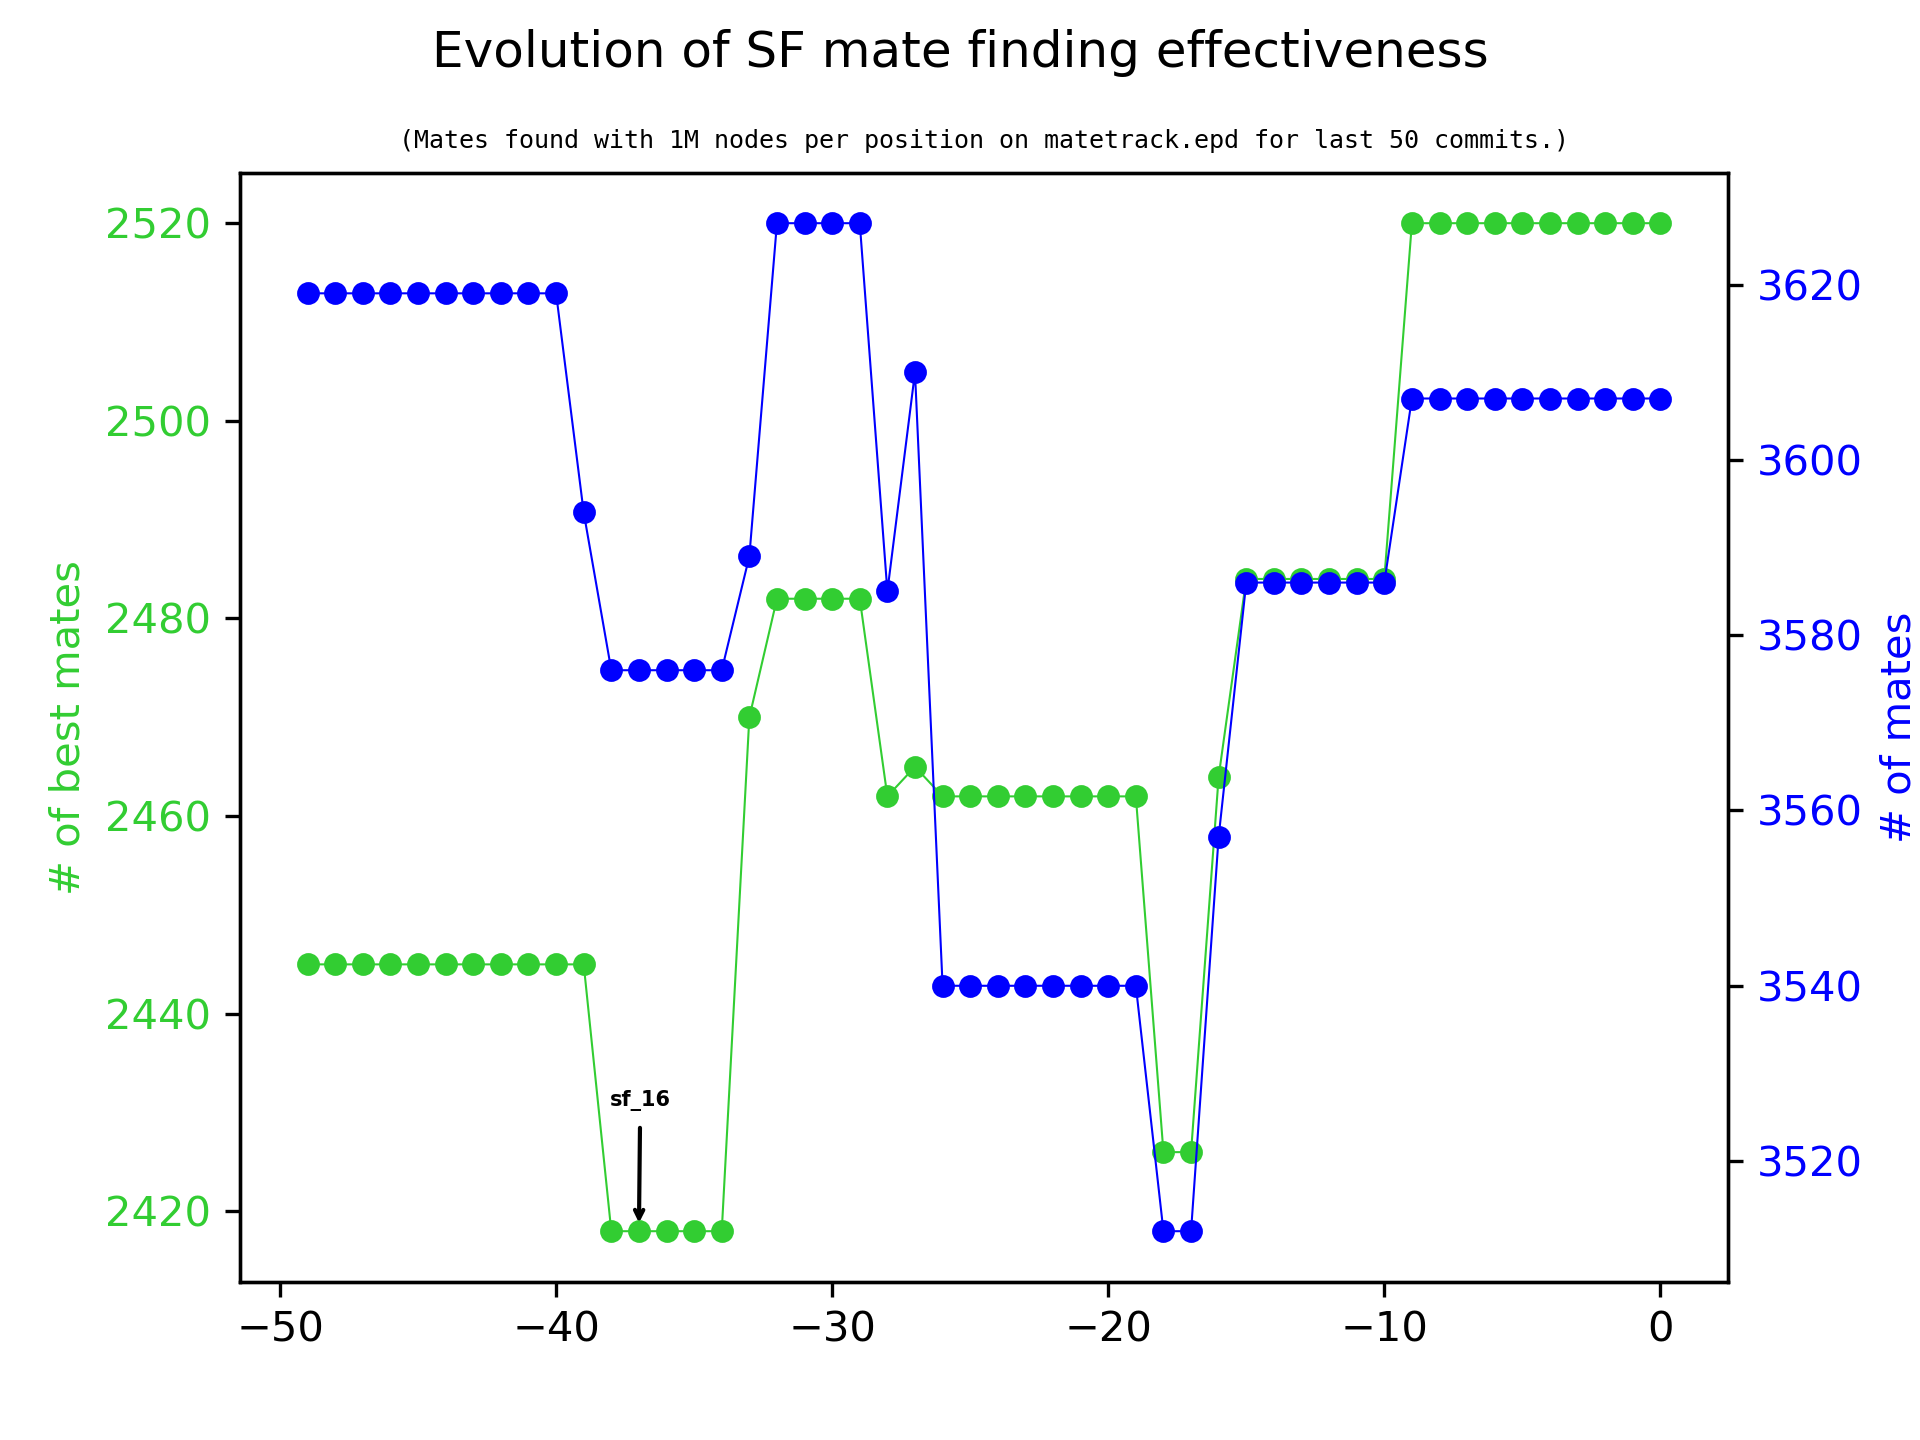
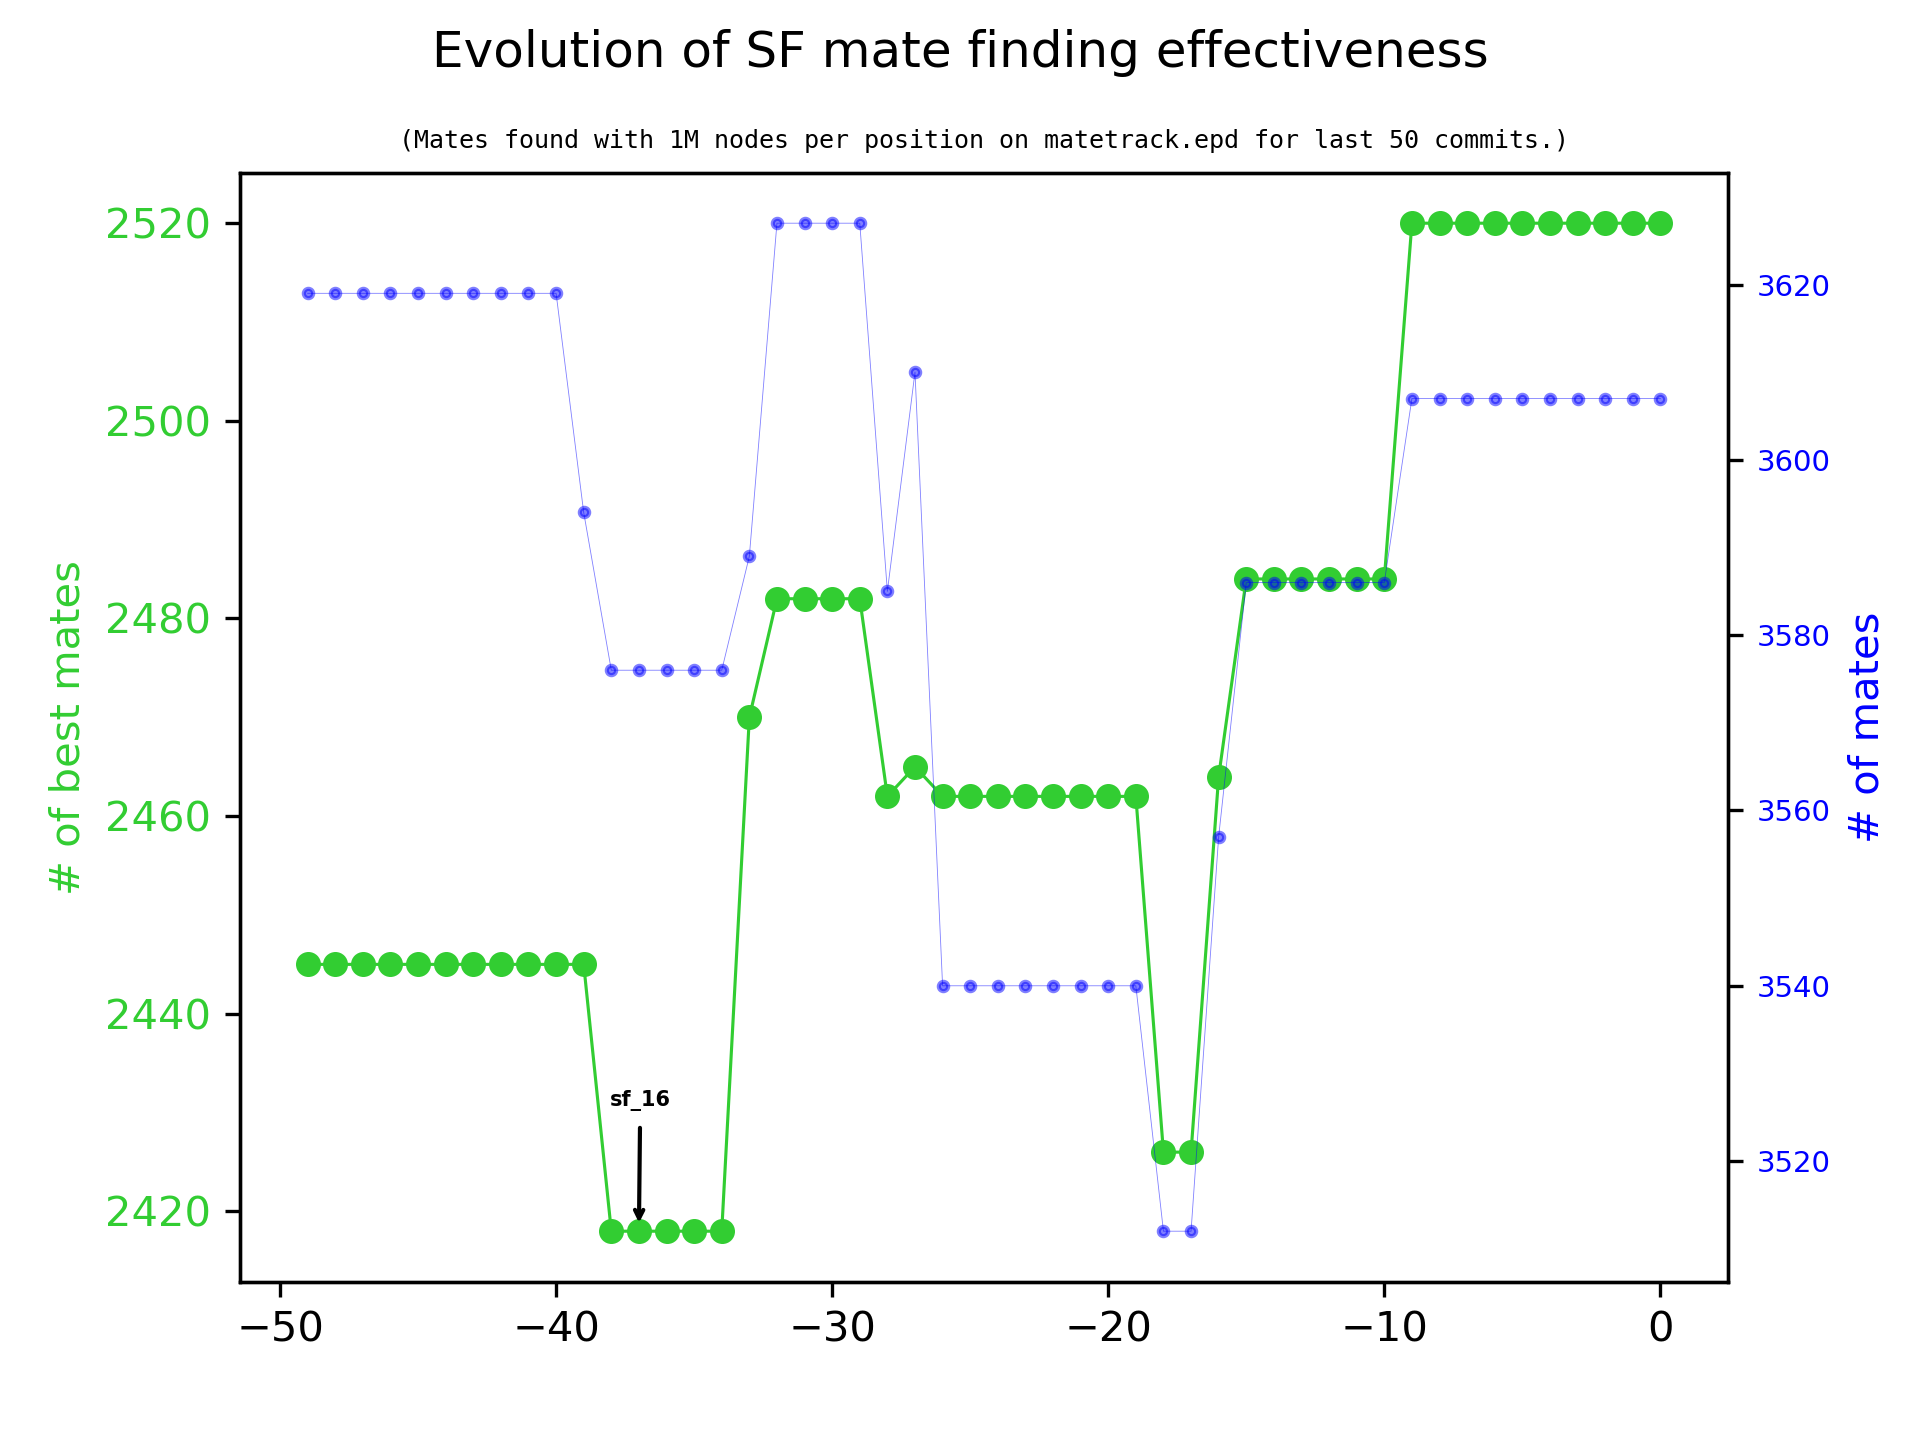
nicer plot styles (#13)

diff --git a/plotdata.py b/plotdata.py
@@ -38,9 +38,9 @@ class matedata:
         yColor, dateColor = "black", "black"
         bmateColor, mateColor = "limegreen", "blue"
         if plotAll:
-            dotSize = 5
-            ax.scatter(d, m, label="mates", color=mateColor, s=dotSize)
-            ax.scatter(d, b, label="best mates", color=bmateColor, s=dotSize)
+            dotSize = 1
+            bmate = ax.scatter(d, m, label="mates", color=mateColor, s=dotSize)
+            mate = ax.scatter(d, b, label="best mates", color=bmateColor, s=dotSize)
             ax.set_ylabel("# of mates", color=yColor)
             ax.tick_params(axis="y", labelcolor=yColor)
             ax.xaxis.set_major_formatter(mdates.DateFormatter("%Y-%m-%d"))
@@ -51,19 +51,27 @@ class matedata:
                 rotation_mode="anchor",
                 fontsize=6,
             )
-            ax.legend()
+            ax.grid(alpha=0.4, linewidth=0.5)
+            lgnd = ax.legend()
+            for handle in lgnd.legendHandles:
+                handle.set_sizes([8])
+            bmate.set_alpha(0.25)
+            mate.set_alpha(0.25)
         else:
             d = list(range(plotStart + 1, 1))
             ax2 = ax.twinx()
-            dotSize, lineWidth = 20, 0.5
-            ax2.scatter(d, m, label="mates", color=mateColor, s=dotSize)
-            ax.scatter(d, b, label="best mates", color=bmateColor, s=dotSize)
-            ax2.plot(d, m, color=mateColor, linewidth=lineWidth)
-            ax.plot(d, b, color=bmateColor, linewidth=lineWidth)
+            bmateDotSize, bmateLineWidth = 25, 0.75
+            mateDotSize, mateLineWidth, mateAlpha = 5, 0.2, 0.5
+            ax2.scatter(
+                d, m, label="mates", color=mateColor, s=mateDotSize, alpha=mateAlpha
+            )
+            ax.scatter(d, b, label="best mates", color=bmateColor, s=bmateDotSize)
+            ax2.plot(d, m, color=mateColor, linewidth=mateLineWidth, alpha=mateAlpha)
+            ax.plot(d, b, color=bmateColor, linewidth=bmateLineWidth)
             ax.set_ylabel("# of best mates", color=bmateColor)
             ax.tick_params(axis="y", labelcolor=bmateColor)
             ax2.set_ylabel("# of mates", color=mateColor)
-            ax2.tick_params(axis="y", labelcolor=mateColor)
+            ax2.tick_params(axis="y", labelcolor=mateColor, labelsize=7)
         # add release labels
         for i, txt in enumerate(t):
             if txt:

diff --git a/README.md b/README.md
@@ -9,9 +9,9 @@ The raw data is available in [`matetrack1000000.csv`](matetrack1000000.csv),
 and visualized in the graphs below.
 
 <p align="center">
-  <img src="matetrack1000000.png?raw=true">
+  <img src="matetrack1000000all.png?raw=true">
 </p>
 
 <p align="center">
-  <img src="matetrack1000000all.png?raw=true">
+  <img src="matetrack1000000.png?raw=true">
 </p>
